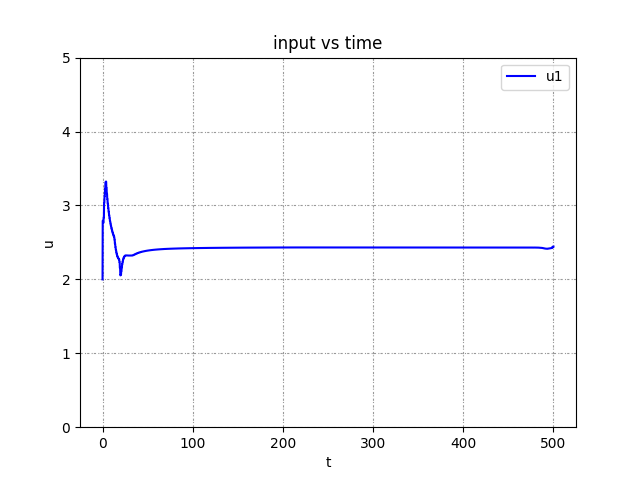
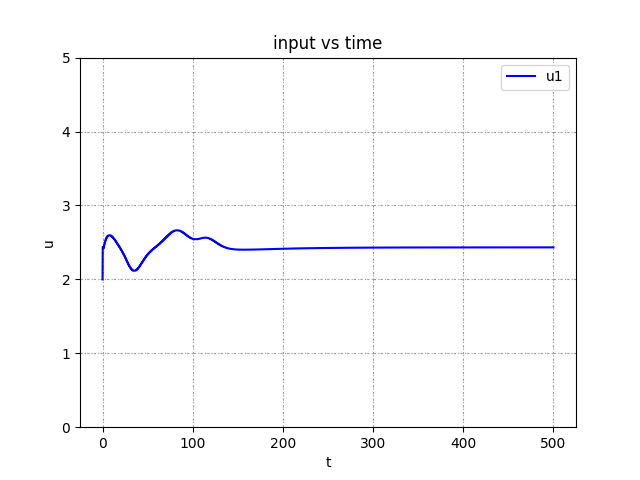
refine running procedure and docs

Changed region(s): [[0.1562, 0.375, 0.5938, 0.5625], [0.75, 0.5, 0.875, 0.5312]]

diff --git a/gestelt_bringup/src/Learning_Agile/learning_agile_agent.py b/gestelt_bringup/src/Learning_Agile/learning_agile_agent.py
@@ -4,6 +4,7 @@
 import sys
 import os
 import subprocess
+import yaml
 # acquire the current directory
 current_dir = os.path.dirname(os.path.abspath(__file__))
 
@@ -73,7 +74,7 @@ class MovingGate():
         # return self.w
     
 class LearningAgileAgent():
-    def __init__(self,python_sim_time) -> None:
+    def __init__(self,python_sim_time,yaml_file) -> None:
 
         self.sim_time=python_sim_time
         # inputs [start, end]
@@ -86,14 +87,18 @@ class LearningAgileAgent():
         self.moving_gate = MovingGate(self.env_inputs)
         self.gate_point = self.moving_gate.gate_point
 
+        # load the configuration file
+        with open(yaml_file, 'r', encoding='utf-8') as file:
+            self.config_dict = yaml.safe_load(file)
+
         # load trained DNN2 model
         self.model = torch.load(FILE)
     
 
         ##-------------------- planning variables --------------------------##
         # MPC prediction step, and prediction horizon
-        self.dt=0.1
-        self.horizon=10 #(T/dt)
+        self.dt=self.config_dict['learning_agile']['dt']
+        self.horizon=self.config_dict['learning_agile']['horizon'] #(T/dt)
 
         self.u = np.array([2,0.0,0.0,0.0])
         self.tm = [0,0,0,0]
@@ -160,7 +165,8 @@ class LearningAgileAgent():
             ini_q=drone_init_quat.tolist()
           
 
-        self.quad1 = run_quad(goal_pos=self.env_inputs[3:6].tolist(),
+        self.quad1 = run_quad(self.config_dict,
+                              goal_pos=self.env_inputs[3:6].tolist(),
                               ini_r=self.env_inputs[0:3].tolist(),
                               ini_q=ini_q,
                               horizon=self.horizon,
@@ -329,18 +335,23 @@ class LearningAgileAgent():
     
         
 def main():
+    # yaml file dir#
+    conf_folder=os.path.abspath(os.path.join(current_dir, '..', '..','config'))
+    yaml_file = os.path.join(conf_folder, 'learning_agile_mission.yaml')
+
     ## --------------for single planning part test-------------------------------##.
     # create the learning agile agent
-    learing_agile_agent=LearningAgileAgent(python_sim_time=10)
+    learing_agile_agent=LearningAgileAgent(python_sim_time=10,yaml_file=yaml_file)
 
 
     #------------------------------set the mission--------------------------------------#
-    learing_agile_agent.receive_mission_states(start=np.array([0,1.8,1.0]),
-                                                end=np.array([10,1.8,1.4]),
-                                                gate_center=np.array([1,1.8,1.4]),
-                                                gate_ori_euler=np.array([0,0,0]),
-                                                t_tra_abs=1,
-                                                max_tra_w=00)
+    config_dict = learing_agile_agent.config_dict
+    learing_agile_agent.receive_mission_states(start=np.array(config_dict['mission']['initial_position']),
+                                                end=np.array(config_dict['mission']['goal_position']),
+                                                gate_center=np.array(config_dict['mission']['gate_position']),
+                                                gate_ori_euler=np.array(config_dict['mission']['gate_ori_euler']),
+                                                t_tra_abs=config_dict['learning_agile']['traverse_time'],
+                                                max_tra_w=config_dict['learning_agile']['max_traverse_weight'])
 
     # #------------------------------------------------------------------------------#
     # problem definition

diff --git a/gestelt_bringup/src/Learning_Agile/quad_policy.py b/gestelt_bringup/src/Learning_Agile/quad_policy.py
@@ -14,7 +14,7 @@ def Rd2Rp(tra_ang):
     return [theta,vector]
 
 class run_quad:
-    def __init__(self, goal_pos = [0, 8, 0], 
+    def __init__(self,config_dict, goal_pos = [0, 8, 0], 
                  goal_atti = [0,[1,0,0]], ini_r=[0,-8,0],
                 ini_v_I = [0.0, 0.0, 0.0], 
                 ini_q = toQuaternion(0.0,[3,3,5]),
@@ -36,7 +36,7 @@ class run_quad:
         self.ini_w =  [0.0, 0.0, 0.0]
         self.ini_state = self.ini_r + self.ini_v_I + self.ini_q# + self.ini_w
         # set horizon
-        self.horizon = horizon
+        self.horizon = config_dict['learning_agile']['horizon']
 
         # --------------------------- create model1 ----------------------------------------
         self.uav1 = Quadrotor()
@@ -67,7 +67,7 @@ class run_quad:
         self.uavoc1.setAuxvarVariable()
         sc= 5 #1e20
         pos_b   = 5 # in each axis
-        vel_b   = 0.5 # in each axis
+        vel_b   = config_dict['learning_agile']['linear_vel_bound'] #0.5 # in each axis
         wc   = pi/2 #pi
         tw   = 1.22
         t2w  = 2
@@ -78,16 +78,11 @@ class run_quad:
                                      state_ub=[pos_b,pos_b,2,
                                                vel_b,vel_b,vel_b,
                                                sc,sc,sc,sc]) 
-       
-        # 2.1334185=2700x2700x2.9265e-07
-        # drone mass: 0.248kg, g: 9.81m/s^2 weight: 0.248*9.81 = 2.43368N
-        # hover throttle: 0.29, thrust: 0.29*max_thrust =2.43368N
-        # max_thrust = 2.43368/0.29 = 8.4N
-        # single_motor_max_thrust = 8.4/4 = 2.1N
+        thrust_ub = config_dict['learning_agile']['single_motor_max_thrust']*4*0.5
+        thrust_lb = config_dict['learning_agile']['single_motor_max_thrust']*4*0.2
 
-        thrust_ub = 2.0*4*0.5
-        thrust_lb = 2.0*4*0.2
-        ang_rate_b=1.57
+        
+        ang_rate_b = config_dict['learning_agile']['angular_vel_bound']
 
         self.uavoc1.setControlVariable(self.uav1.U,
                                        control_lb=[thrust_lb ,-ang_rate_b,-ang_rate_b,-ang_rate_b],\

diff --git a/gestelt_bringup/src/Learning_Agile/c_generated_code/acados_solver_ACADOS_model.c b/gestelt_bringup/src/Learning_Agile/c_generated_code/acados_solver_ACADOS_model.c
@@ -555,12 +555,12 @@ void ACADOS_model_acados_create_5_set_nlp_in(ACADOS_model_solver_capsule* capsul
     ubx[1] = 5;
     lbx[2] = 0.3;
     ubx[2] = 2;
-    lbx[3] = -0.5;
-    ubx[3] = 0.5;
-    lbx[4] = -0.5;
-    ubx[4] = 0.5;
-    lbx[5] = -0.5;
-    ubx[5] = 0.5;
+    lbx[3] = -3;
+    ubx[3] = 3;
+    lbx[4] = -3;
+    ubx[4] = 3;
+    lbx[5] = -3;
+    ubx[5] = 3;
     lbx[6] = -5;
     ubx[6] = 5;
     lbx[7] = -5;

diff --git a/docs/MPC_explain.md b/docs/MPC_explain.md
@@ -6,15 +6,19 @@ https://nusu-my.sharepoint.com/:p:/g/personal/e1101704_u_nus_edu/ETM5ynQhbRdOqy5
 ## Two kinds of simulations
 1. **python simulation:**\
 ![Alt text](pictures/python_simulation.jpeg)
-
-2. **Gazebo PX4_SITL simulation:**
+    1. running steps:
+        1. config your desired params in the file `gestelt_bringup/config/learning_agile_mission.yaml`
+        2. running the `gestelt_bringup/src/Learning_Agile/learning_agile_agent.py`, it will <u>construct the solver based on your current config</u>, and running the **python simulation**.
+1. **Gazebo PX4_SITL simulation:**
 ![Alt text](pictures/gazebo_sim.jpeg)
-
+    1. running steps:
+        1. running the above python simulation to generated MPC solver
+        2. see [section](#4-running-the-gazebo-sitl-simulation-and-the-real-flight) 
 ## Installation of the ACADOS
 1. Please refer to the [LearningAgileFlight_SE3](https://github.com/BinghengNUS/LearningAgileFlight_SE3) to install the python dependency. for the **python simulation**.
 2. Please refer to the main `README.md` to install dependence, for the **Gazebo PX4_SITL simulation**. (optional, there are resources on the Internet about how to configure the PX4 sitl)
 
-2. The `acados_template` is the required by the `acados` framework, also you need to install `acados` and setup the environment, please refer to [acados installation](https://docs.acados.org/installation/index.html)
+3. The `acados_template` is the required by the `acados` framework, also you need to install `acados` and setup the environment, please refer to [acados installation](https://docs.acados.org/installation/index.html)
 ## 1. The MPC problem definition is modified from the work [LearningAgileFlight_SE3](https://github.com/BinghengNUS/LearningAgileFlight_SE3), in the folder :
 
 ```plaintext
